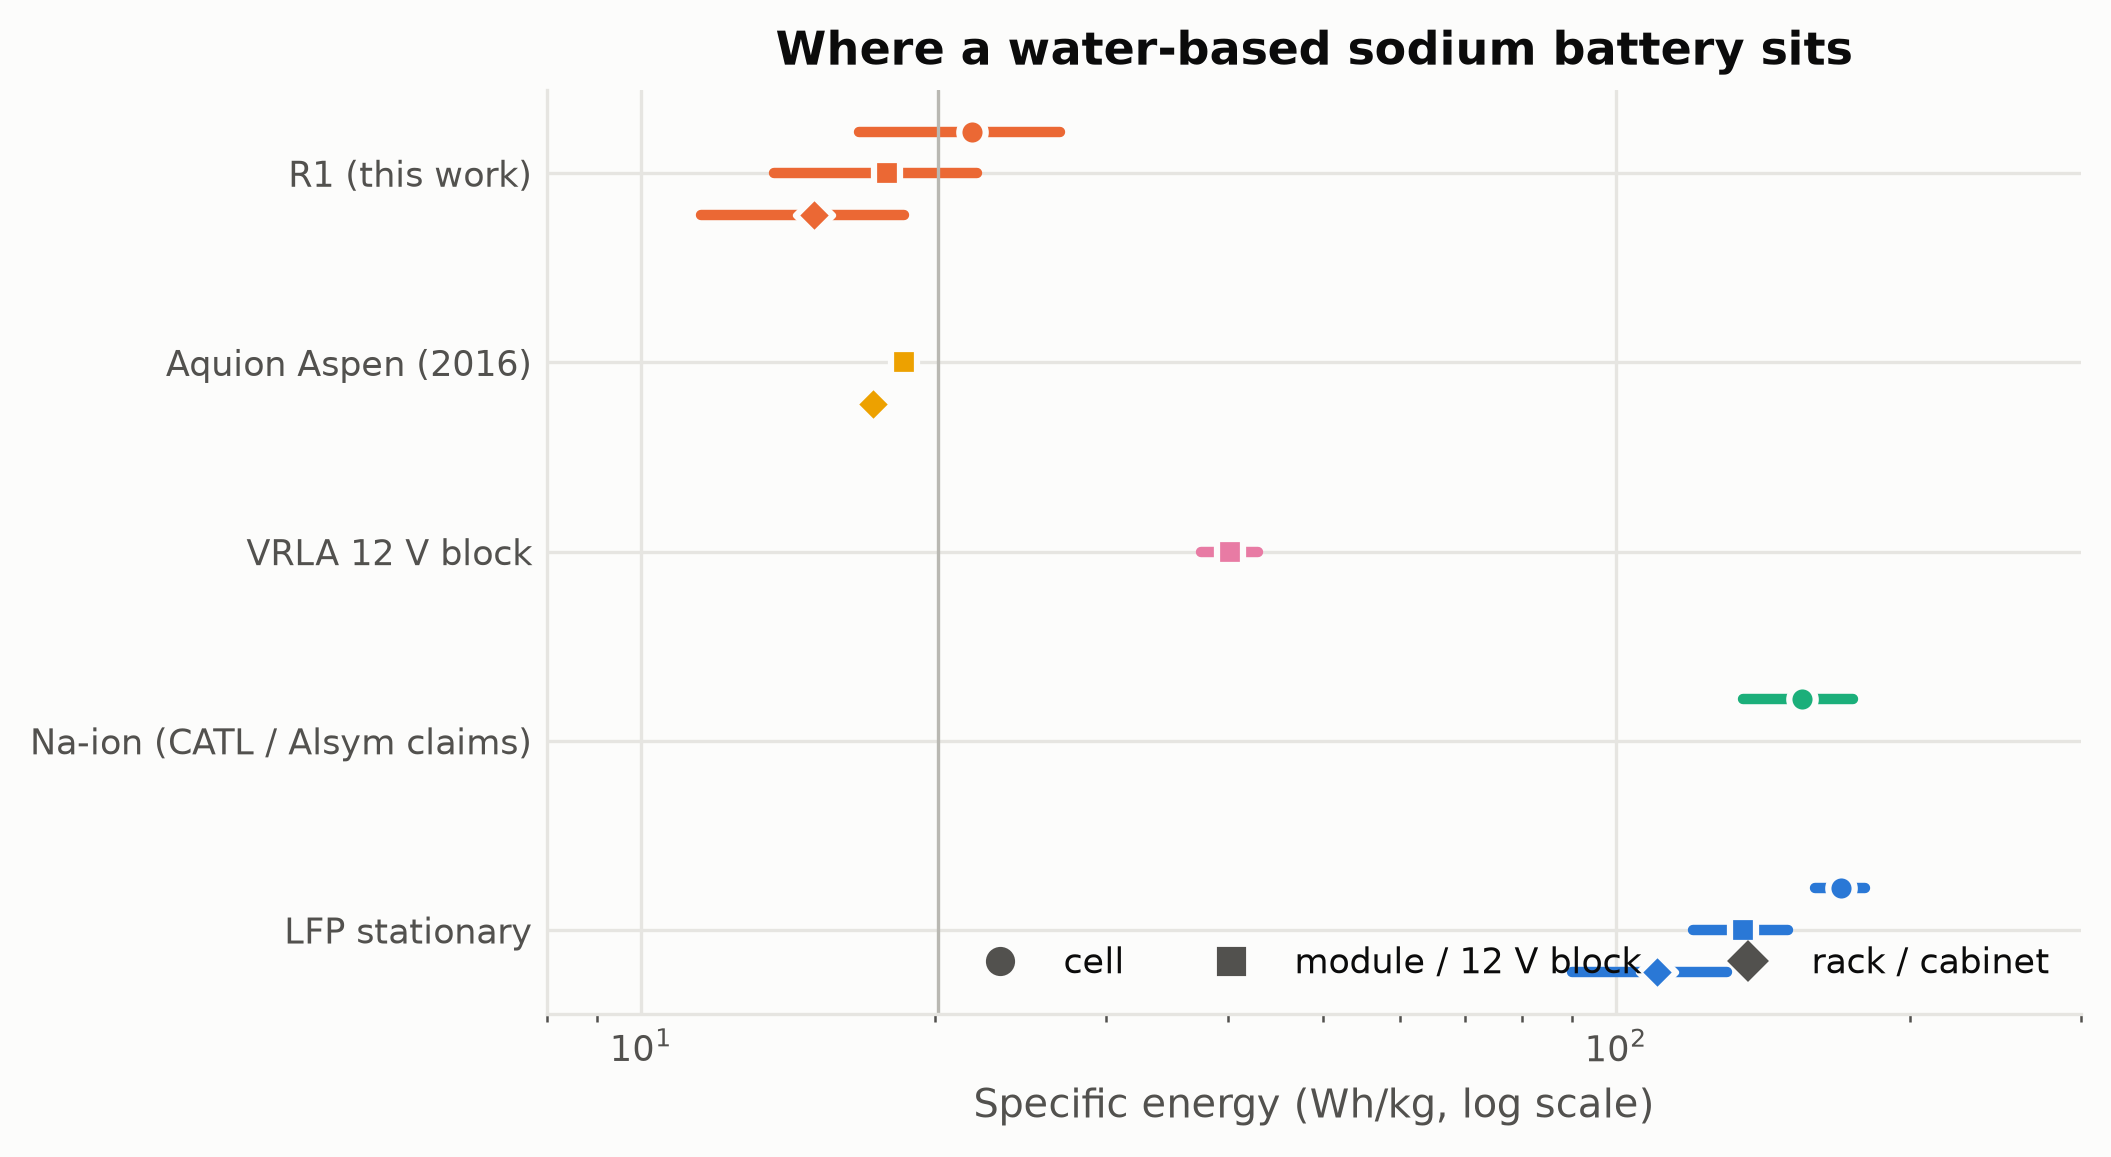
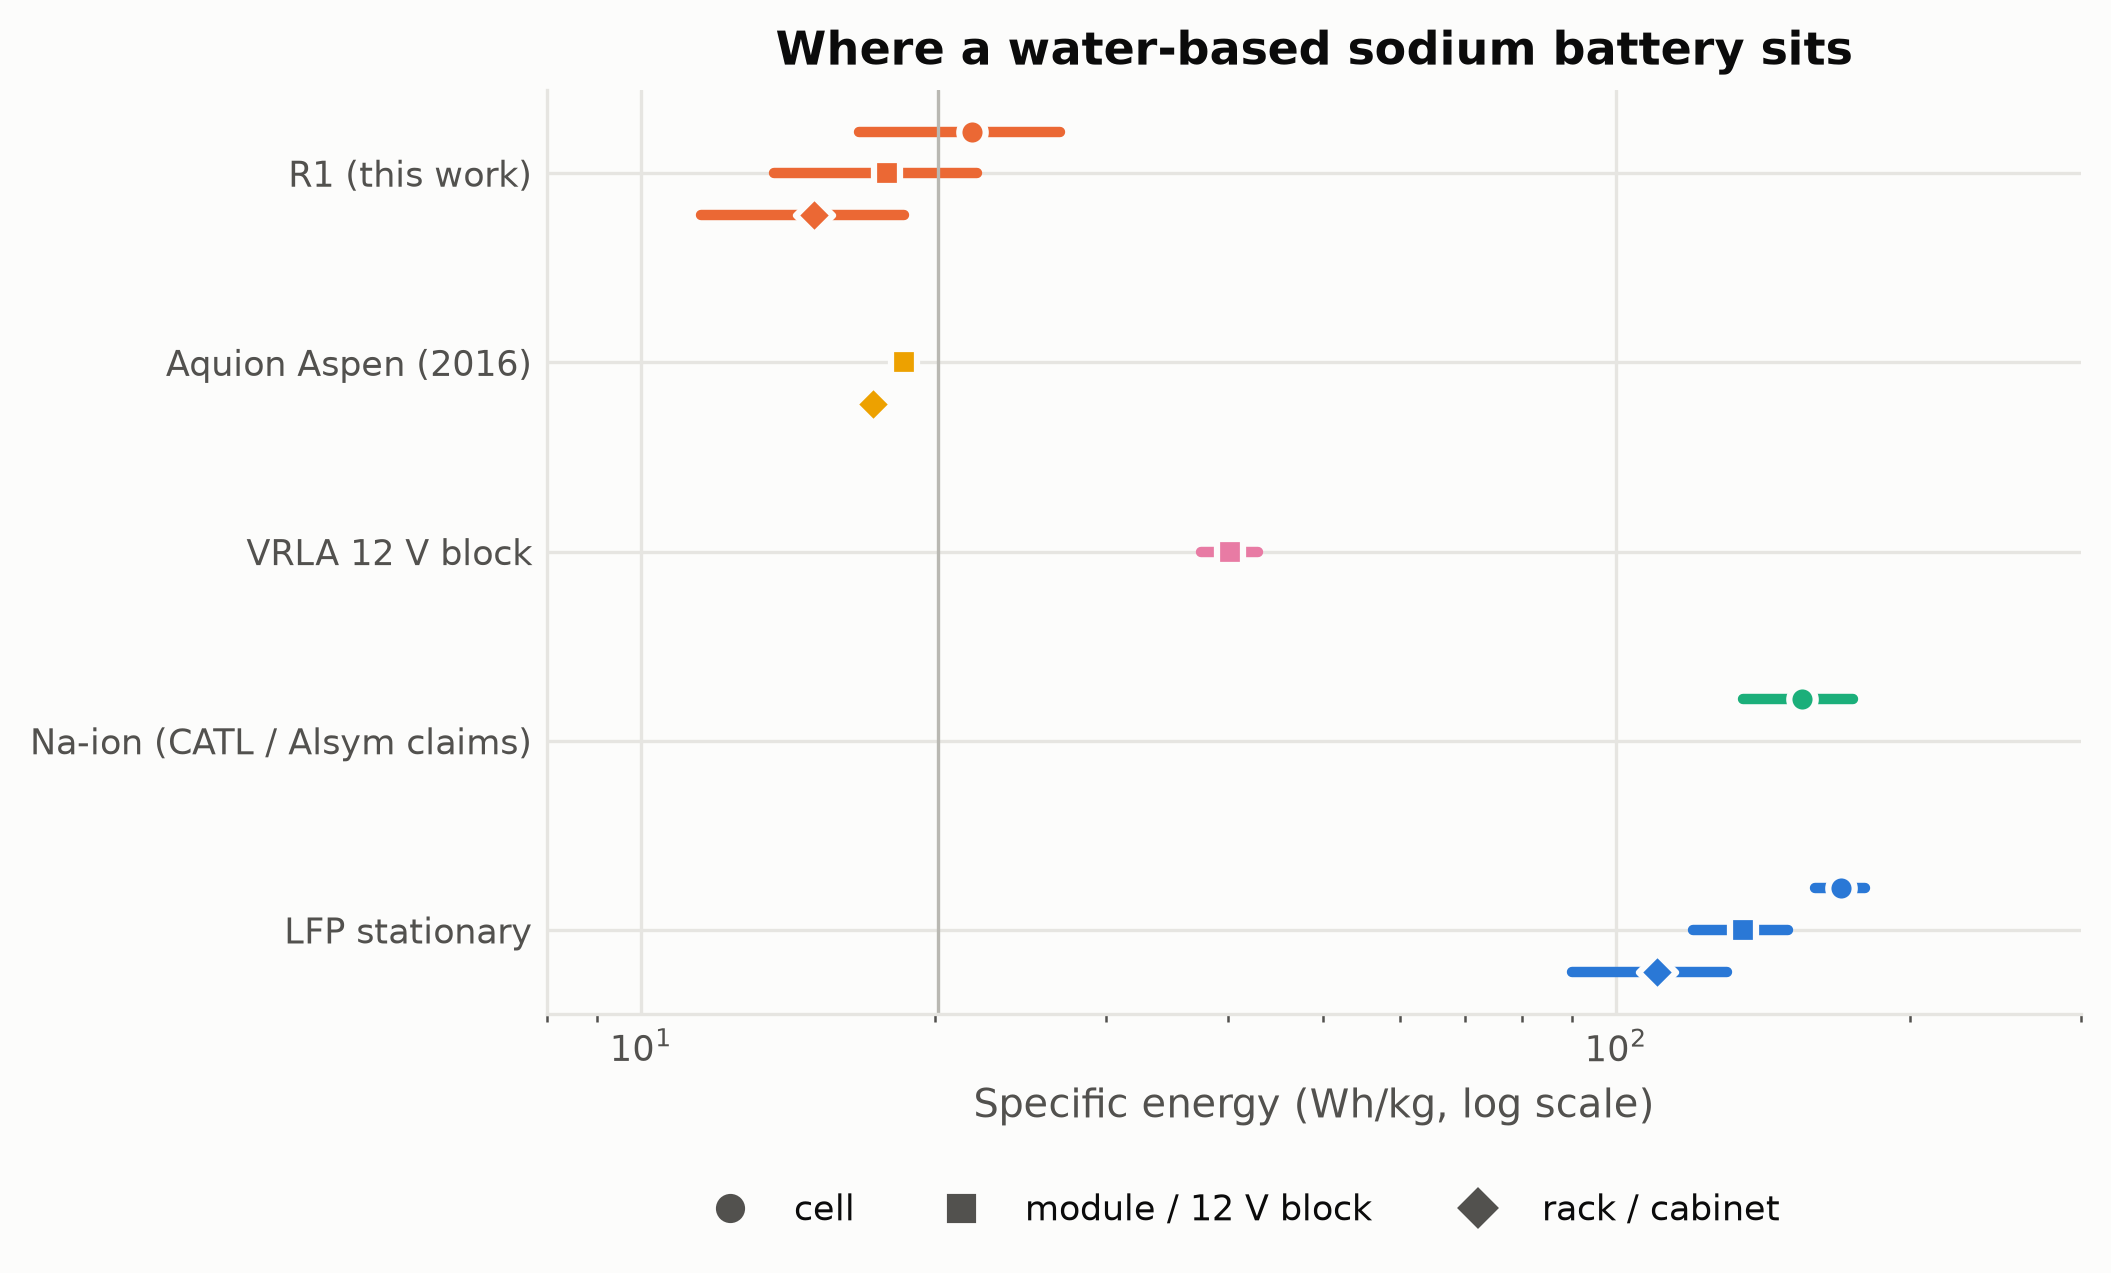
feat(s07): update build-up model (deck QA, DFT restart)

diff --git a/sim/s07_buildup/run_s07.py b/sim/s07_buildup/run_s07.py
@@ -95,7 +95,7 @@ def charts(res):
     ax.set_yticks(range(len(rows))); ax.set_yticklabels([r[0] for r in rows]); ax.invert_yaxis()
     ax.set_xlabel("Specific energy (Wh/kg, log scale)")
     handles = [plt.Line2D([], [], marker=mk[lv], color=ps.TEXT2, lw=0, markersize=6) for lv in levels]
-    ax.legend(handles, ["cell", "module / 12 V block", "rack / cabinet"], loc="lower right", ncol=3)
+    ax.legend(handles, ["cell", "module / 12 V block", "rack / cabinet"], loc="upper center", bbox_to_anchor=(0.45, -0.16), ncol=3)
     ax.set_title("Where a water-based sodium battery sits")
     ax.axvline(res["R1_nominal"]["monobloc_Wh_kg"], color=ps.DEEMPH, lw=0.8)
     ps.save(fig, OUT / "s07_energy_density_comparison",
